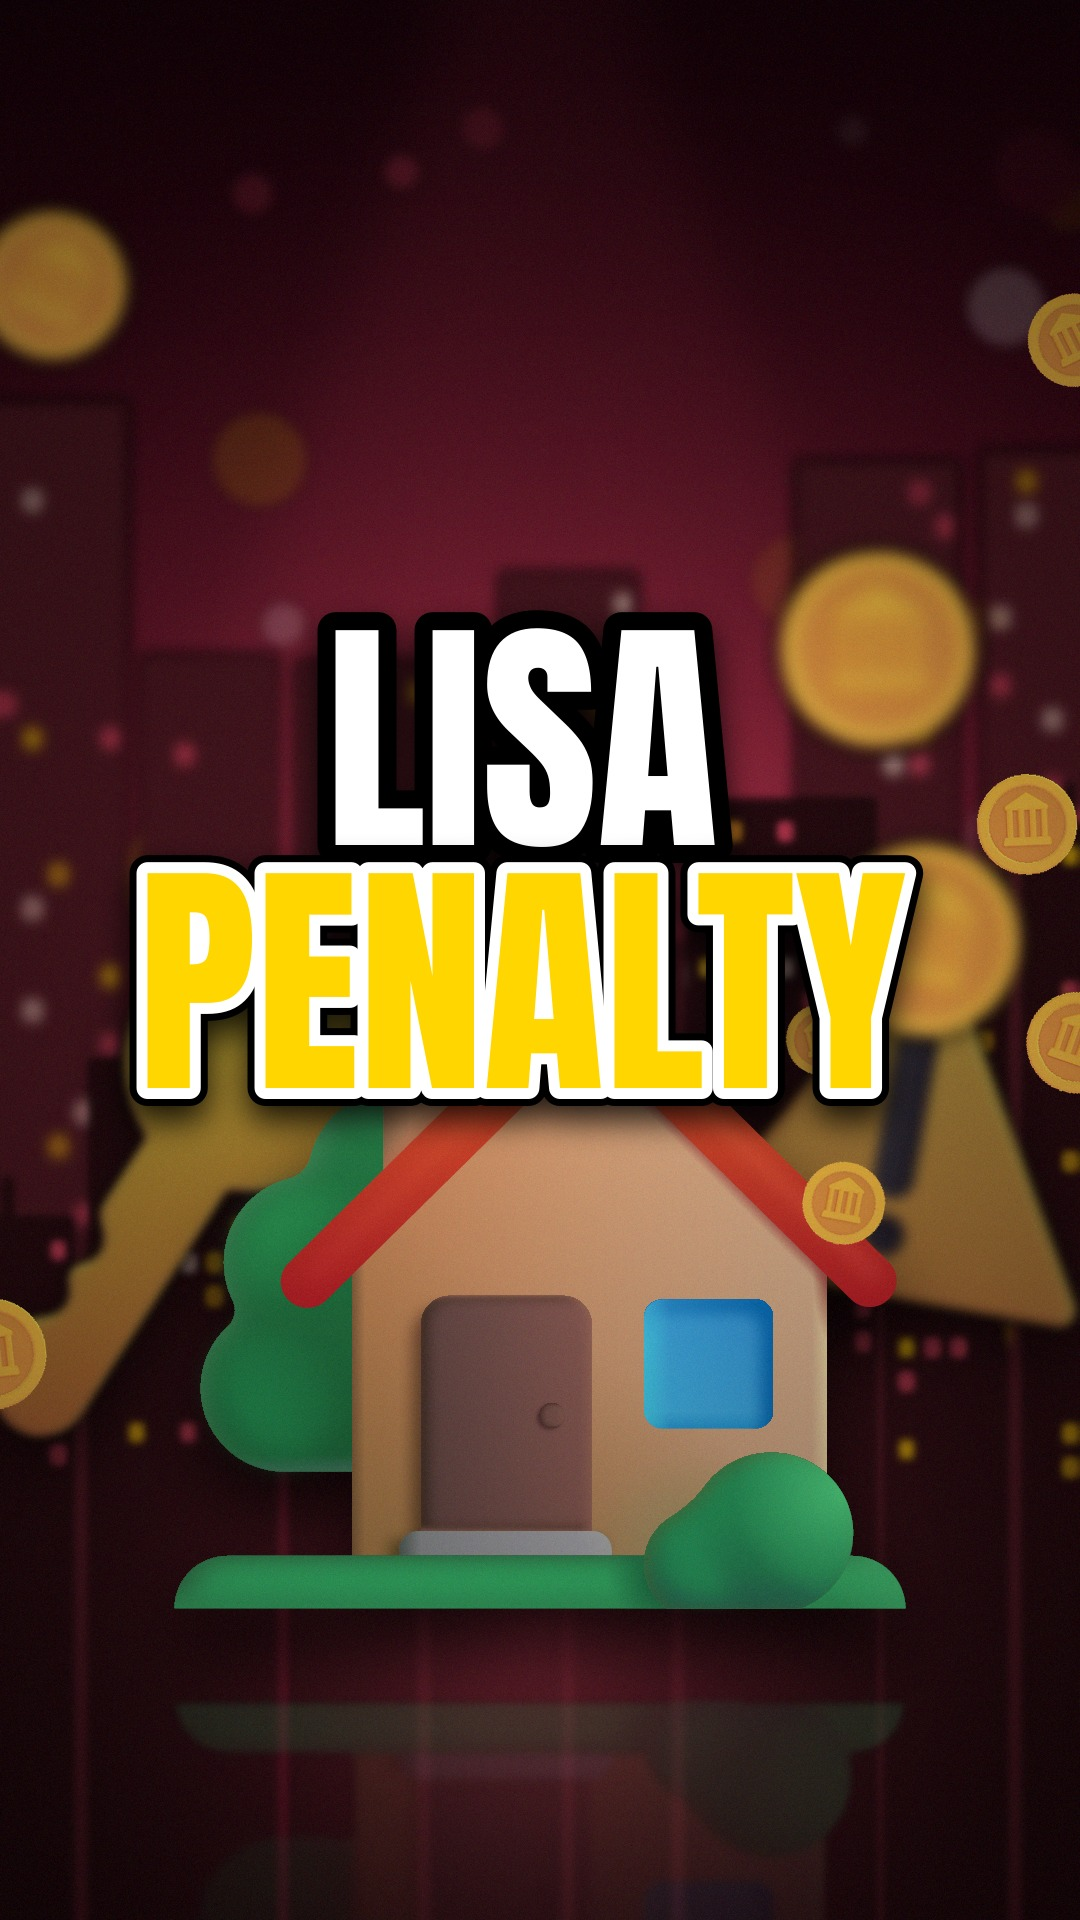
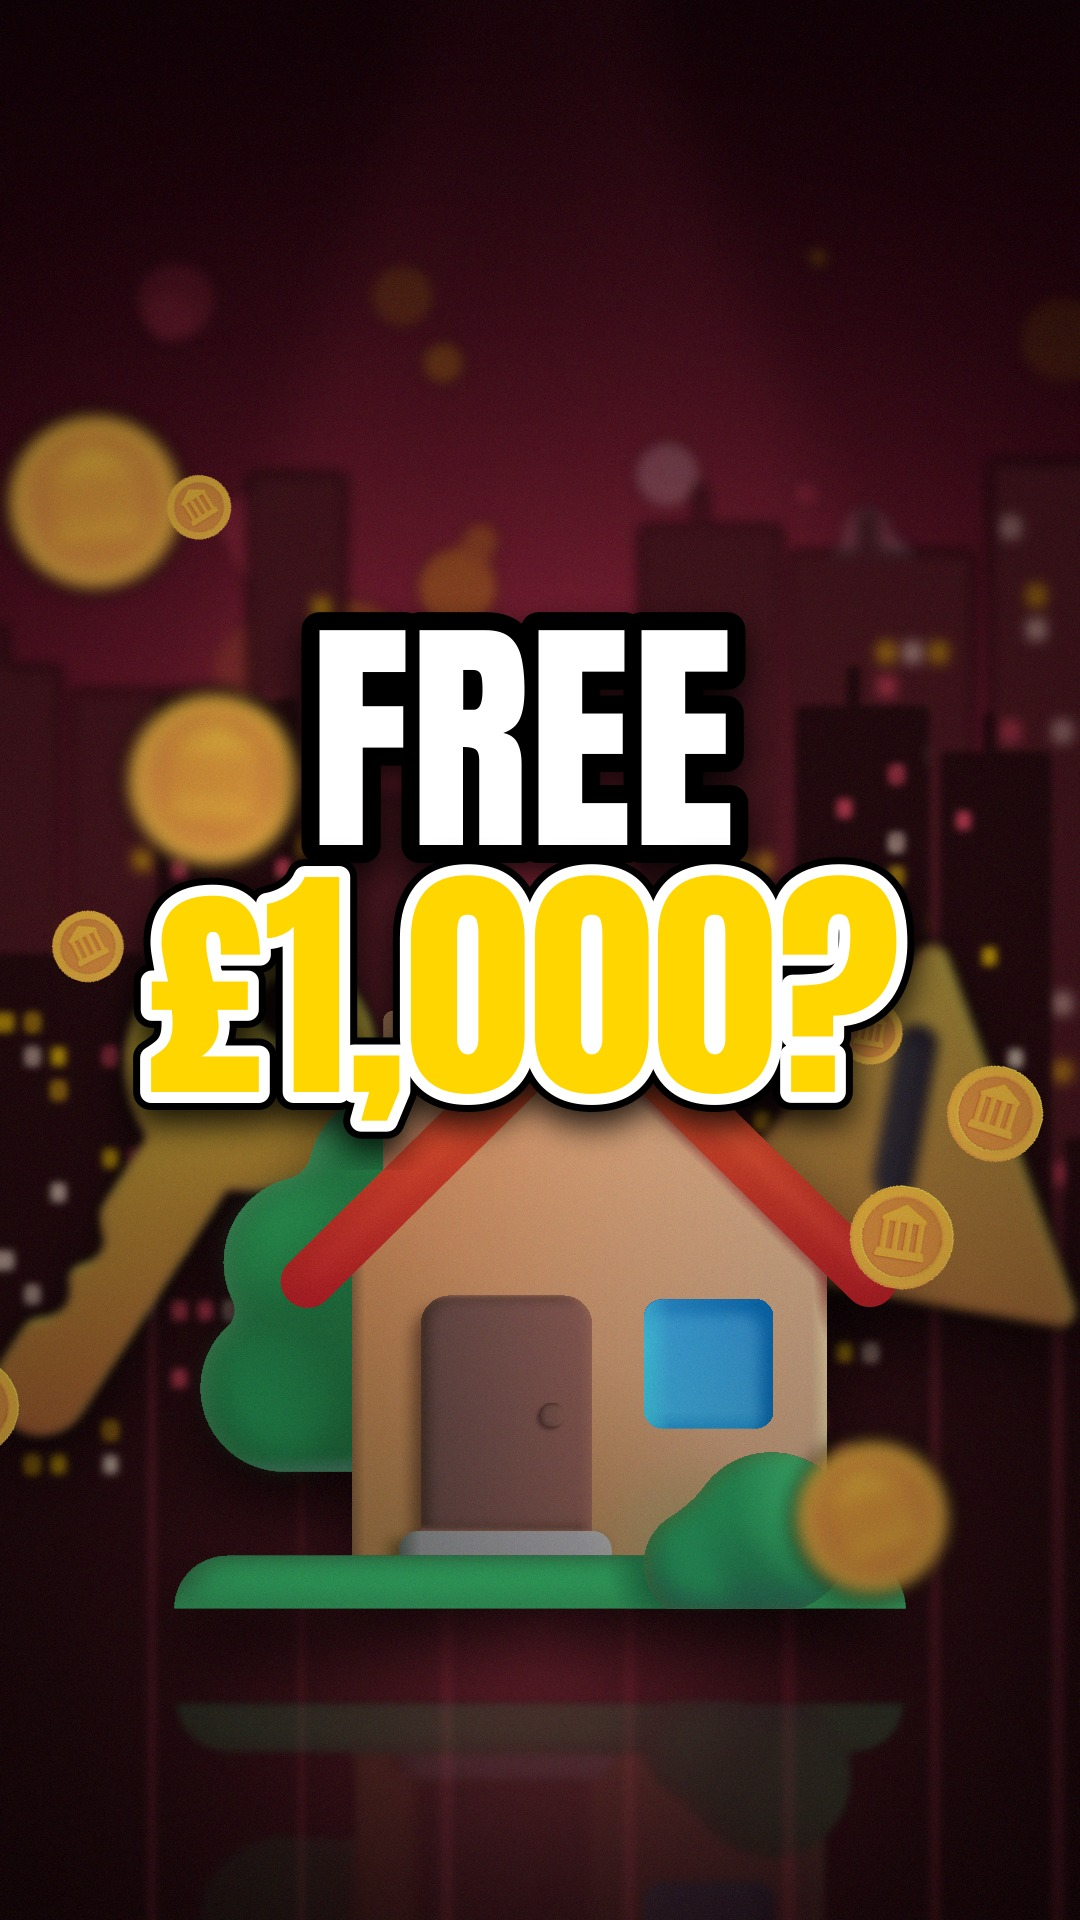
Simple-and-gripping rules (BRAND.md §0) + remake video 010 in the new style (18:00, 23 Oct)
The owner found the videos too maths-heavy. New rules: surprise hook, max 5 numbers said,
no decimals or equations, short sentences, re-hooks, one thing on screen at a time.
qa.py now warns on each. Templates updated. Video 010 rebuilt and rescheduled to 18:00.

Claude-Session: https://claude.ai/code/session_01GcQQGX8JjzmmLzySr9cfM6

diff --git a/videos/010-lisa-withdrawal-charge/scenes.py b/videos/010-lisa-withdrawal-charge/scenes.py
@@ -19,7 +19,7 @@ from motion import *  # noqa: F401,F403
 from brand import *  # noqa: F401,F403
 
 BRAND = True
-COVER = dict(words=("LISA", "PENALTY"), highlight=1, hero="House with garden", left="Key", right="Warning",
+COVER = dict(words=("FREE", "£1,000?"), highlight=1, hero="House with garden", left="Key", right="Warning",
              particles="Coin")
 
 # ---- figures (gov.uk, checked 23 Oct 2026) -----------------------------------------------------------------
@@ -47,73 +47,79 @@ assert CHARGE == BONUS + LOSS                       # takes back the bonus, plus
 assert (HOME_CAP, FREE_AGE) == (450_000, 60)
 # gov.uk's own worked example uses the same maths: £800 + £200 bonus, charge £250, back £750
 assert (800 + 800 * BONUS_RATE) * (1 - CHARGE_RATE) == 750
+QUARTER = "a quarter"  # spoken for 25%
 # comment-question answer (not shown): £1,000 in -> £1,250 pot -> £937.50 back
 assert (1_000 * (1 + BONUS_RATE)) * (1 - CHARGE_RATE) == 937.5
 
 STAMP = "GOV.UK · LIFETIME ISA · CHECKED 23 OCT 2026"
 
 
-def s_hook(L, t):  # sentences 0-1
-    cover_hook(L, t, gbp(BACK), sub=f"from {gbp(PAID)} paid in", number_at=tk(0, "£3,750"),
-               kicker="LIFETIME ISA, TAKEN OUT EARLY",
-               extra=lambda L, t: chip(L, f"{gbp(LOSS)} LESS THAN YOU PAID IN", W / 2, 1170, t, tk(1, "£250"),
-                                       "red", 32, emoji="chart_decreasing"))
+
+def s_hook(L, t):  # sentences 0-1: the surprise
+    cover_hook(L, t, "+" + gbp(BONUS), sub="...then it takes back even more", number_at=tk(0, "£1,000"),
+               kicker="FROM THE GOVERNMENT",
+               extra=lambda L, t: chip(L, "THE LIFETIME ISA", W / 2, 1170, t, tk(1, "Lifetime"), "white", 34,
+                                       emoji="house"))
 
 
-def s_maths(L, t):  # sentences 2-3
-    beat(L, "maths", t, S(2) - 0.1)
-    value_card(L, W / 2, 470, 880, t, S(2), "pound_banknote", "YOU PAY IN", gbp(PAID), color=Wt,
-               value_at=S(2) + 0.2, h=140, sub="the most a year")
-    value_card(L, W / 2, 640, 880, t, tk(2, "25%"), "wrapped_gift", "25% GOVERNMENT BONUS", "+" + gbp(BONUS),
-               color=C, value_at=tk(2, "£1,000"), h=140, sub="up to £1,000 a year")
-    a = panel(L, W / 2, 900, 760, 230, t, tk(3, "pot") - 0.15, "green")
-    L.text("IN YOUR POT", W / 2, 830, 30, M, a, weight="ExtraBold")
+def s_deal(L, t):  # sentences 2-3: the deal, one number at a time
+    beat(L, "THE DEAL", t, S(2) - 0.1)
+    value_card(L, W / 2, 500, 880, t, S(2), "pound_banknote", "YOU SAVE", gbp(PAID), color=Wt,
+               value_at=tk(2, "£4,000"), h=150)
+    value_card(L, W / 2, 690, 880, t, tk(2, "£1,000") - 0.2, "wrapped_gift", "YOU GET FREE", "+" + gbp(BONUS),
+               color=G, value_at=tk(2, "£1,000"), h=150)
+    a = ramp(t, tk(3, "amazing"), 0.25)
     if a > 0:
-        big_number(L, gbp(POT), W / 2, 925, t, tk(3, "£5,000"), size=130, alpha=a)
-    checked(L, STAMP, W / 2, 1100, t, tk(3, "£5,000") + 0.4)
+        L.emoji("party_popper", W / 2, 940, 150, t, tk(3, "amazing"), bounce=True)
+        L.text("SOUNDS AMAZING?", W / 2, 1090, 56, Wt, a, weight="Black")
 
 
-def s_twist(L, t):  # sentences 4-5
-    beat(L, "twist", t, S(4) - 0.1, sub="25% OF THE WHOLE POT", sub_at=tk(4, "whole"))
-    timed_line(L, [("25%", RED, tk(4, "25%")), ("OF", M, tk(4, "charge")), (gbp(POT), G, tk(4, "whole")),
-                   ("=", M, tk(4, "£1,250")), ("-" + gbp(CHARGE), RED, tk(4, "£1,250"))], W / 2, 440, 66, t)
-    bar_chart(L, t, S(4) + 0.2, [PAID, POT, BACK], ["YOU PAID", "POT", "YOU GET"], (200, 560, 880, 900),
-              [Wt, G, RED], dur=0.6, stagger=0.15,
-              value_tags={0: (gbp(PAID), Wt, S(4) + 0.4), 1: (gbp(POT), G, S(4) + 0.6),
-                          2: (gbp(BACK), RED, tk(4, "£1,250") + 0.2)})
-    chip(L, f"BONUS {gbp(BONUS)} + {gbp(LOSS)} OF YOUR OWN", W / 2, 1020, t, tk(5, "bonus"), "red", 30,
-         emoji="warning")
-    a = ramp(t, tk(5, "6.25%"), 0.25)
-    L.text(f"{gbp(LOSS)} = {LOSS_PCT:.2f}% OF {gbp(PAID)}", W / 2, 1120, 40, G, a, weight="Black")
-    checked(L, STAMP, W / 2, 1200, t, tk(5, "6.25%") + 0.4)
+def s_catch(L, t):  # sentences 4-6: the catch
+    beat(L, "catch", t, S(4) - 0.1)
+    a = ramp(t, tk(4, "quarter"), 0.2)
+    if a > 0:
+        big_number(L, "-25%", W / 2, 560, t, tk(4, "quarter"), size=200, color=RED, alpha=a)
+        L.text("OF EVERYTHING YOU TAKE OUT", W / 2, 700, 34, M, a, weight="ExtraBold")
+    chip(L, "THE FREE £1,000 + YOUR OWN SAVINGS", W / 2, 850, t, tk(5, "Your"), "red", 32, emoji="warning")
 
 
-def s_miss(L, t):  # sentences 6-7
-    beat(L, "miss", t, S(6) - 0.1)
-    value_card(L, W / 2, 470, 880, t, S(6), "house", "NO CHARGE: FIRST HOME UP TO", gbp(HOME_CAP), color=G,
-               value_at=tk(6, "£450,000"), h=140)
-    value_card(L, W / 2, 640, 880, t, tk(6, "£450,000") + 0.3, "old_woman", "NO CHARGE: FROM AGE", str(FREE_AGE),
-               color=G, value_at=tk(6, "60"), h=140)
-    chip(L, f"FIRST HOME OVER {gbp(HOME_CAP)}? 25% CHARGE", W / 2, 820, t, tk(7, "price"), "red", 30,
-         emoji="cross_mark")
-    checked(L, STAMP, W / 2, 930, t, tk(7, "charge"))
-    caveat(L, t, tk(7, "charge") + 0.3, ["Also charge-free if terminally ill. Assumes no growth.",
-                                         "General education, not financial advice."], cy=1050, size=26)
+def s_result(L, t):  # sentence 6: the result
+    beat(L, "THE RESULT", t, S(6) - 0.1)
+    versus(L, t,
+           dict(title="YOU SAVED", label="", value=gbp(PAID), color=Wt, start=S(6), at=tk(6, "£4,000"),
+                emoji="pound_banknote"),
+           dict(title="YOU GET BACK", label="", value=gbp(BACK), color=RED, start=tk(6, "£3,750") - 0.3,
+                at=tk(6, "£3,750"), tone="red", emoji="chart_decreasing"),
+           cy=620, h=340)
+    chip(L, f"{gbp(LOSS)} LESS THAN YOU SAVED", W / 2, 900, t, tk(6, "£3,750") + 0.3, "red", 36)
 
 
-def s_loop(L, t):  # sentence 8: the loop line, the picture rebuilds the cover
-    loop_close(L, t, 8, comment="£1,000 IN, ALL OUT EARLY: YOU GET? COMMENT")
+def s_miss(L, t):  # sentence 7
+    beat(L, "miss", t, S(7) - 0.1)
+    L.emoji("house", W / 2, 560, 220, t, S(7), bounce=True)
+    a = ramp(t, tk(7, "£450,000"), 0.25)
+    if a > 0:
+        L.text("FIRST HOME OVER", W / 2, 740, 40, M, a, weight="ExtraBold")
+        big_number(L, gbp(HOME_CAP), W / 2, 850, t, tk(7, "£450,000"), size=140, alpha=a)
+    chip(L, "STILL LOSES 25%", W / 2, 990, t, tk(7, "counts"), "red", 36, emoji="cross_mark")
+    checked(L, STAMP, W / 2, 1090, t, tk(7, "counts") + 0.3)
+    caveat(L, t, tk(7, "counts") + 0.5, ["No charge from 60 or if terminally ill. General education, not advice."],
+           cy=1170, size=24)
 
 
-SCENES = [(0, 1), (2, 3), (4, 5), (6, 7), (8, 8)]
-DRAW = [s_hook, s_maths, s_twist, s_miss, s_loop]
+def s_loop(L, t):  # sentence 8: loop line back into sentence 1
+    loop_close(L, t, 8, comment="£1,000 OUT EARLY: YOU GET? COMMENT")
+
+
+SCENES = [(0, 1), (2, 3), (4, 5), (6, 6), (7, 7), (8, 8)]
+DRAW = [s_hook, s_deal, s_catch, s_result, s_miss, s_loop]
 
 
 def events():
-    ev = [{"t": tk(0, "£3,750") + 0.05, "kind": "pop"},
-          {"t": tk(1, "£250"), "kind": "boom"},
-          {"t": tk(2, "£1,000"), "kind": "coin"}, {"t": tk(3, "£5,000"), "kind": "coin"},
-          {"t": tk(4, "£1,250"), "kind": "boom"}, {"t": tk(5, "6.25%"), "kind": "pop"},
-          {"t": tk(6, "£450,000"), "kind": "pop"}, {"t": tk(6, "60"), "kind": "pop"},
-          {"t": tk(7, "price"), "kind": "boom"}]
+    ev = [{"t": tk(0, "£1,000") + 0.05, "kind": "coin"},
+          {"t": tk(0, "takes"), "kind": "boom"},
+          {"t": tk(2, "£4,000"), "kind": "pop"}, {"t": tk(2, "£1,000"), "kind": "coin"},
+          {"t": tk(4, "quarter"), "kind": "boom"},
+          {"t": tk(6, "£3,750"), "kind": "boom"},
+          {"t": tk(7, "£450,000"), "kind": "pop"}]
     return scene_events(ev)

diff --git a/pipeline/qa.py b/pipeline/qa.py
@@ -85,6 +85,16 @@ def check_script(spec, video_dir):
     long = [i for i, s in enumerate(ss) if len(spoken(s).split()) > 20]
     if long:
         report("WARN", f"long sentences (>20 spoken words): {long}")
+    # Simple & gripping (BRAND.md §0, owner's request 23 Oct 2026)
+    busy = [i for i, s in enumerate(ss) if len(spoken(s).split()) > 16]
+    if busy:
+        report("WARN", f"sentences over 16 spoken words: {busy} — one idea per sentence (BRAND.md §0)")
+    nums = shown_numbers(spec)
+    (report("PASS", f"{len(nums)} different numbers said") if len(nums) <= 5 else
+     report("WARN", f"{len(nums)} different numbers said ({', '.join(nums)}) — max 5; keep the rest in the "
+                    "description (BRAND.md §0)"))
+    if any(re.search(r"\d\.\d", re.sub(r"\{([^|}]*)\|[^}]*\}", r"\1", x)) for x in ss):
+        report("WARN", "a decimal is said in the video — round it or keep it in the description (BRAND.md §0)")
 
 
 def previous_format(video_dir):

diff --git a/BRAND.md b/BRAND.md
@@ -17,6 +17,38 @@ data, rotating formats, the owner's own take when she adds one, no presenter or 
 
 ---
 
+## 0. Simple and gripping (the owner's rule, 23 Oct 2026 — this wins over anything below)
+
+The owner's feedback: earlier videos had too much maths and were hard to follow. Every Short now is a tiny
+**story with a surprise**, not a worked calculation. Viewers should *feel* something (surprise, "that's not
+fair", relief) and want to see the end.
+
+1. **Hook in the first 2 seconds: a surprise or a contradiction**, not a sum. Make the viewer think "wait,
+   what?". Good: "The government gives you £1,000… then takes back even more." · "Earn £1 more, and you
+   could lose £600." · "This pension trick gives you £20 for free." Bad: "Pay £4,000 in, take it out early,
+   and get back £3,750." (correct, but it's a sum). The hook must still be true and match the video.
+2. **Open a loop, close it late.** The hook raises a question; the full answer lands in the last third.
+   Add a re-hook every 5–8 seconds: "Sounds amazing, right?" · "But here's the catch." · "And it gets worse."
+3. **Maximum 5 different numbers said aloud** (fewer is better), round and friendly (£1,000, a quarter,
+   half). No decimals, no percentages of percentages, no equations said aloud. Every other figure goes in the
+   description and the fact sheet — still verified.
+4. **One idea per sentence, ≤ 14 spoken words**, everyday words, talk to "you" ("your £4,000"). Short
+   reaction lines are good ("Sounds amazing, right?" · "Not just the bonus. Your own money too.").
+5. **One thing on screen at a time**: one big number, or two cards side by side (before / after, you save /
+   you get back). No formula lines, no bar charts with more than 2 bars, no blocks of small text (except the
+   one-line caveat).
+6. **Emotion beats**: the deal (😀) → the catch (😱) → the result in pounds (what *you* lose or gain) → the
+   thing people miss → loop. Use emoji and sound (coin on a win, boom on a loss) to carry the feeling.
+7. **Cover words tease, they don't explain**: FREE **£1,000?** · **60%** TAX? · PENSION **TRICK**.
+8. **Title = curiosity + the number**, e.g. "The Government Gives You £1,000… Then Takes Back £1,250 😱🏠".
+   Never a claim the video doesn't back up (no "guaranteed", no fake urgency).
+
+Still true from the rules below: every number checked on the day, education not advice, no persona, no spoken
+calls to action, loop ending, 20–40 s (aim for 25–35 s). `qa.py` warns when a script breaks rules 3–4: treat
+those warnings as failures and fix them. Worked example: `videos/010-lisa-withdrawal-charge`.
+
+---
+
 ## 1. Formats (rotate — never the same format twice in a row)
 
 Every Short is **20–40 seconds, 6–10 sentences** (voice `bf_emma`, speed 1.15, gap 0.08). Sentence 1 carries
@@ -108,12 +140,12 @@ use words or `L.arrow`), or if frame 0 is empty.
   return promises, no "guaranteed".
 - **No persona.** No AI presenter, avatar or character; the narrator never claims to be a person or an expert.
   The only "I" on the channel is the owner's own take (`take_card`, label MY TAKE), in her words.
-- British spelling, plain English, ≤ 20 spoken words a sentence. Numbers as `{£50,270|fifty thousand, two
+- British spelling, plain English, ≤ 14 spoken words a sentence (§0). Numbers as `{£50,270|fifty thousand, two
   hundred and seventy pounds}`.
-- **Hook formulas** (`<X>` = a figure computed and verified for that video):
-  *calc* "Earn £<X> and part of your next pay rise is taxed at <X>%." · *myth* "Go £1 over the higher rate
-  line, and you still keep 58p of it." · *since* "£1,000 put away in <year> is worth £<X> today." · *news*
-  "From <date>, <thing> goes up to £<X>."
+- **Hook formulas** (surprise first — see §0; `<X>` = a figure verified for that video):
+  *calc* "The government gives you £<X>… then takes back even more." · "Earn £1 more, and you could lose
+  £<X>." · *myth* "Everyone says <belief>. It's wrong." · *since* "In <year>, £<X> bought this. Today it buys
+  that." · *news* "From <date>, <thing> changes — and it's <good/bad> news for you."
 - **Loop lines** (hand over into sentence 1): "So next time someone turns down a pay rise because of tax,
   remember:" · "Which is why, from April," · "And that's the real reason that"
 - **Title:** ≤ 100 characters, the number + curiosity, one or two emoji, ends `#shorts`.

diff --git a/ROUTINE.md b/ROUTINE.md
@@ -43,7 +43,8 @@ topic `blocked: <reason>` and take the next. Record every number in `meta.json` 
 ## 4. Write `videos/NNN-slug/` (brand-v2)
 `cp -r template/<format> videos/NNN-slug`, then:
 - **spec.json** — `format`, 6–10 sentences, **20–40 seconds** at speed 1.15, gap 0.08, voice `bf_emma`.
-  Sentence 1 = the payoff number. Follow the format's beats (BRAND.md §1). **Last sentence = the loop line**,
+  Sentence 1 = the surprise hook, with a number (BRAND.md §0: simple and gripping — max 5 numbers said, no
+  decimals or equations, ≤ 14 words a sentence, a re-hook every 5–8 s). Follow the format's beats (BRAND.md §1). **Last sentence = the loop line**,
   ending on a hand-over (":" "," or "…") that runs into sentence 1. No spoken calls to action (like, follow,
   share, comment, send). Education, not advice; no persona (BRAND.md §4). Numbers as `{shown|spoken}`.
   Voice it straight away for real word timings:
@@ -62,7 +63,7 @@ topic `blocked: <reason>` and take the next. Record every number in `meta.json` 
 ## 5. Build and check
 ```bash
 KEEP_VOICE=1 pipeline/build_v3.sh videos/NNN-slug     # drop KEEP_VOICE=1 if spec.json changed since voicing
-python3 -I pipeline/qa.py videos/NNN-slug             # must end RESULT: PASS
+python3 -I pipeline/qa.py videos/NNN-slug             # must end RESULT: PASS; fix every WARN that cites BRAND.md §0
 ```
 - If tts prints `MISSING`, reword the spoken text or add the word to `EXTRA` in `pipeline/tts.py`.
 - `qa.py` checks length (20–40 s), sentence count, format rotation, the hook, the loop line, the fact sheet,
